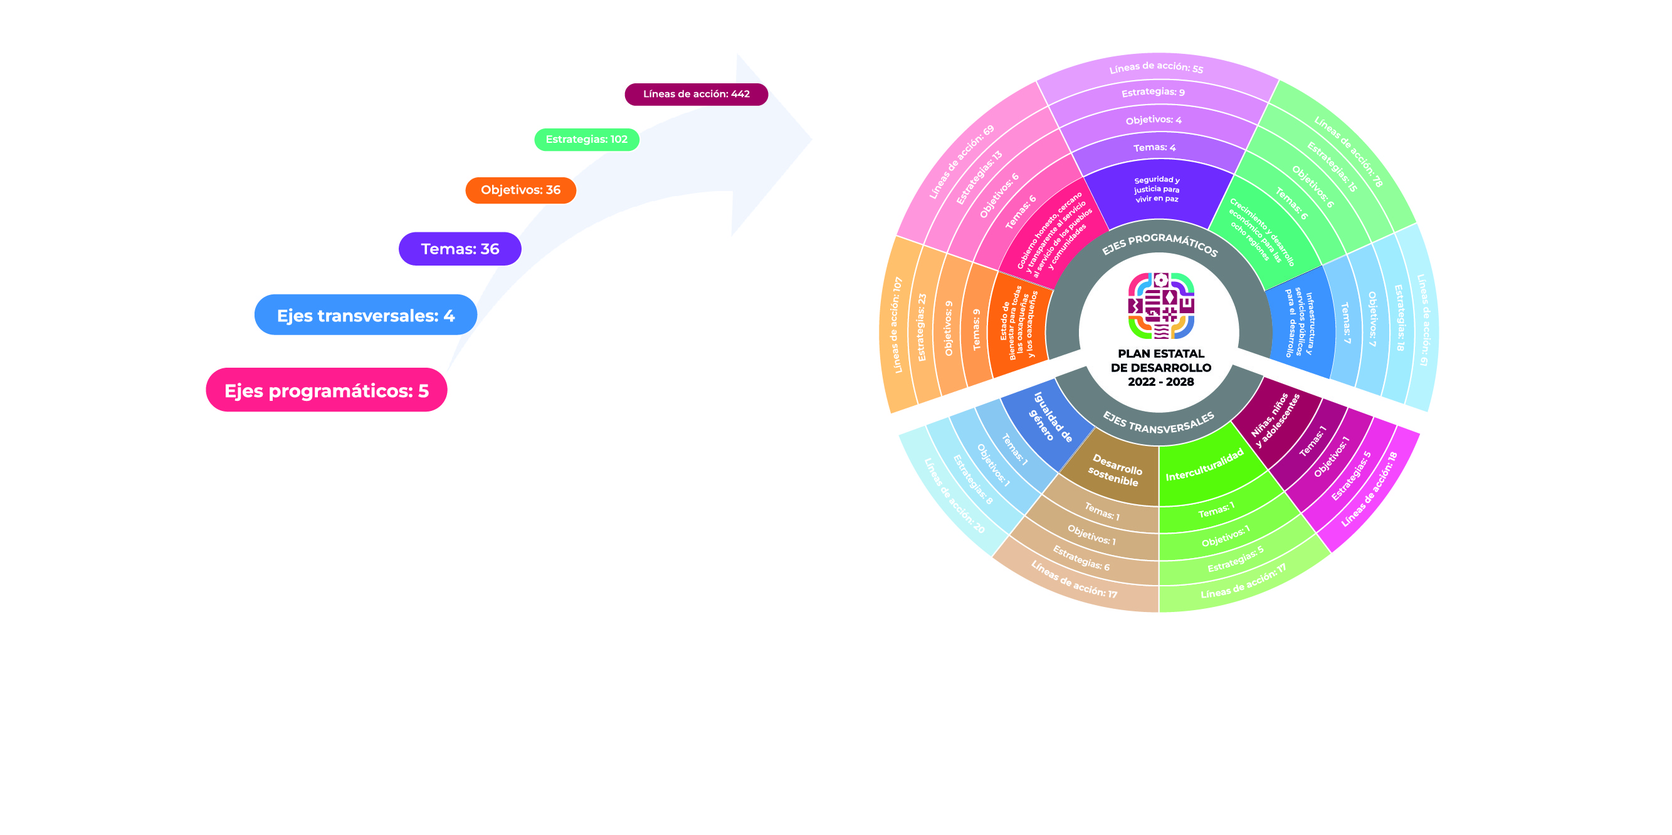
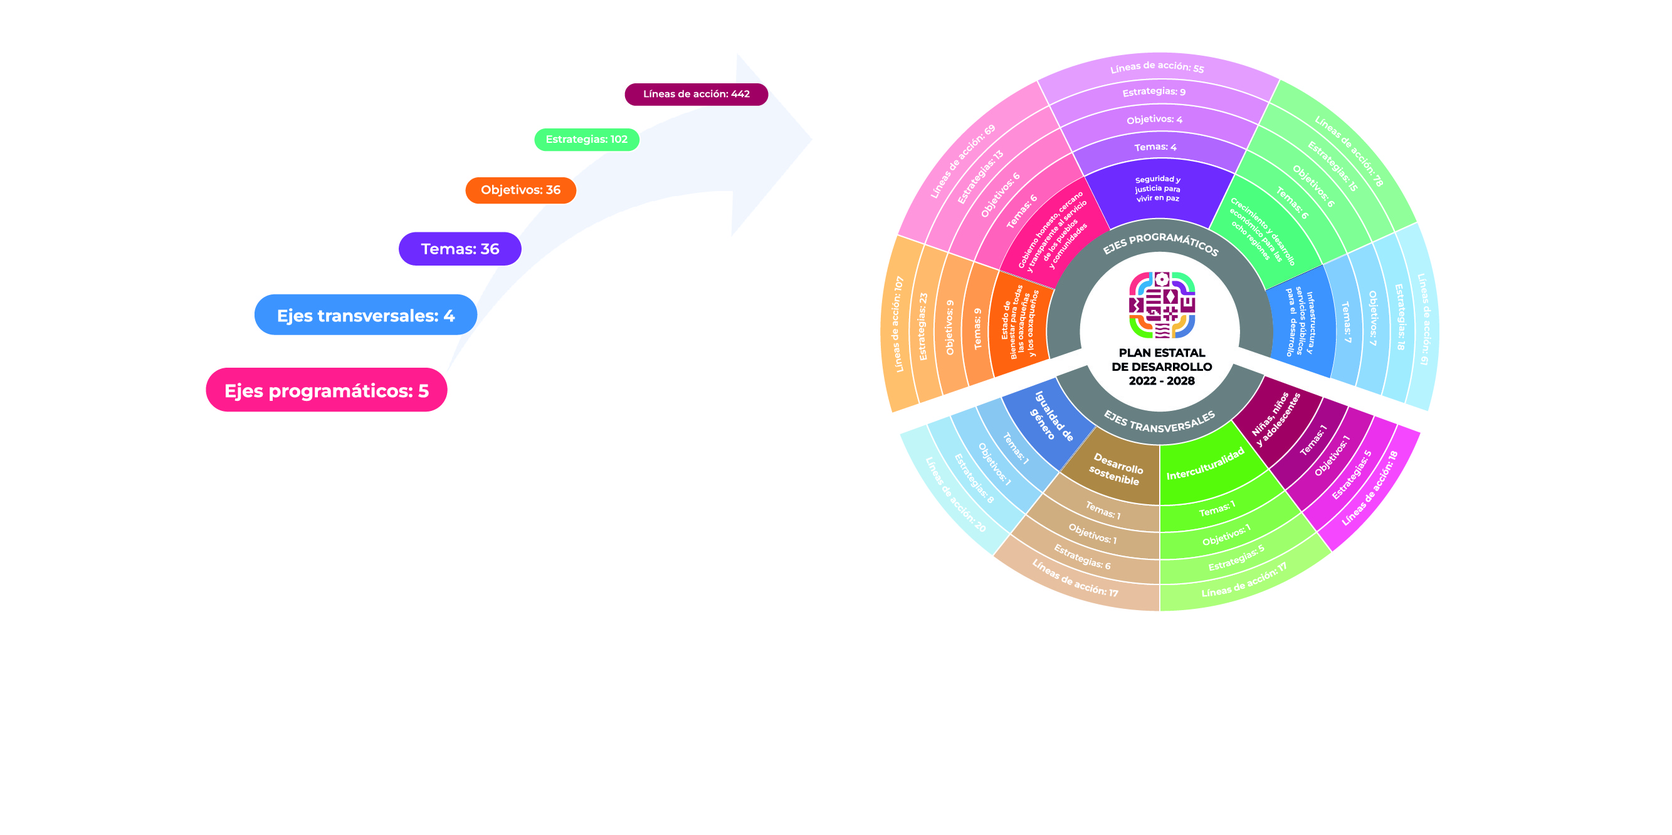
Mostrar ejes transversales en la pagina principal del SIIBIEN

Changed region(s): [[0.5291, 0.0615, 0.8403, 0.4921], [0.5602, 0.4614, 0.8403, 0.7382], [0.7469, 0.123, 0.778, 0.1538]]

diff --git a/resources/views/welcome.blade.php b/resources/views/welcome.blade.php
@@ -1,10 +1,10 @@
 @extends('layouts.general')
 @section('content')
     <!--  <div style=" color:#919090">
-                                                                                <h3 class="text-center">Seguimiento Integral de Indicadores del Bienestar</h3>
-                                                                                <h4 class="text-center">(SIIBIEN)</h4>
-                                                                            </div>
-                                                                            <hr>-->
+                                                                                    <h3 class="text-center">Seguimiento Integral de Indicadores del Bienestar</h3>
+                                                                                    <h4 class="text-center">(SIIBIEN)</h4>
+                                                                                </div>
+                                                                                <hr>-->
     <center style="background-image:url(resources/images/logo_bg.png);background-size:150px;">
         <div id="carouselExampleIndicators" class="carousel slide" data-ride="carousel"
             style="width:70%;background-image:url('resources/images/logo_bg.png')">
@@ -12,99 +12,98 @@
                 <div class="carousel-item active">
                     <img class="d-block w-100" src="resources/images/sliders/sliderA1.jpg" alt="primero">
                     <div class="carousel-caption d-none d-md-block text-left" style="position: absolute;bottom:20px;">
-                        <div class="titleslider" style="display: none"
-                            >
+                        <div class="titleslider" style="display: none">
                             <h2 style="color:black;">Plan Estatal de Desarrollo 2022 - 2028</h2>
                             <!--<p style="color:black;">Instancia Técnica de Evaluación</p>-->
                         </div>
                     </div>
                 </div>
-             <!--   <div class="carousel-item" style="display: none">
-                    <img class="d-block w-100" src="resources/images/sliders/slider1.jpg" alt="primero">
-                    <div class="carousel-caption d-none d-md-block text-left" style="position: absolute;top:20px;">
-                        <div class="titleslider"
-                            >
-                            <h2 style="color:black;">Gobierno del Cambio</h2>
-                            <h4 style="color:black;">La primavera Oaxaqueña ha llegado para quedarse, en Oaxaca comienza el cambio hacia la 4T, dónde nadie se queda fuera y nadie se queda atrás.</h4>
+                <!--   <div class="carousel-item" style="display: none">
+                        <img class="d-block w-100" src="resources/images/sliders/slider1.jpg" alt="primero">
+                        <div class="carousel-caption d-none d-md-block text-left" style="position: absolute;top:20px;">
+                            <div class="titleslider"
+                                >
+                                <h2 style="color:black;">Gobierno del Cambio</h2>
+                                <h4 style="color:black;">La primavera Oaxaqueña ha llegado para quedarse, en Oaxaca comienza el cambio hacia la 4T, dónde nadie se queda fuera y nadie se queda atrás.</h4>
+                            </div>
                         </div>
                     </div>
-                </div>
-                <div class="carousel-item" style="display: none">
-                    <img class="d-block w-100" src="resources/images/sliders/slider2.jpg" alt="segundo">
-                    <div class="carousel-caption d-none d-md-block text-left" style="position: absolute;top:20px;">
-                        <div class="titleslider"
-                            >
-                            <h2 style="color:black;">Sistema para el Seguimiento Integral de los Indicadores de Bienestar (SIIBien)</h2>
-                            <h4 style="color:black;">El SIIBien es un sistema Informático que concentra la información del Desempeño del Plan
-                                Estatal
-                                de Desarrollo 2022-2028 (PED 2022-2028) a través del Seguimiento de los Indicadores
-                                Estratégicos
-                                y de Gestión
-                                derivados de los Objetivos, Estrategias y Líneas de Acción contenidos en el PED.</h4>
+                    <div class="carousel-item" style="display: none">
+                        <img class="d-block w-100" src="resources/images/sliders/slider2.jpg" alt="segundo">
+                        <div class="carousel-caption d-none d-md-block text-left" style="position: absolute;top:20px;">
+                            <div class="titleslider"
+                                >
+                                <h2 style="color:black;">Sistema para el Seguimiento Integral de los Indicadores de Bienestar (SIIBien)</h2>
+                                <h4 style="color:black;">El SIIBien es un sistema Informático que concentra la información del Desempeño del Plan
+                                    Estatal
+                                    de Desarrollo 2022-2028 (PED 2022-2028) a través del Seguimiento de los Indicadores
+                                    Estratégicos
+                                    y de Gestión
+                                    derivados de los Objetivos, Estrategias y Líneas de Acción contenidos en el PED.</h4>
+                            </div>
                         </div>
                     </div>
-                </div>
-                <div class="carousel-item" style="display: none">
-                    <img class="d-block w-100" src="resources/images/sliders/slider3.jpg" alt="tercero">
-                    <div class="carousel-caption d-none d-md-block text-left" style="position: absolute;top:20px;">
-                        <div class="titleslider" 
-                            >
-                        <h2 style="color:black">Gobierno cercano a la gente</h2>
-                        <h4 style="color:black">Las estrategias concebidas en la política pública de este Gobierno estan orientadas hacia el logro del bienestar para todas y todos.</h4>
+                    <div class="carousel-item" style="display: none">
+                        <img class="d-block w-100" src="resources/images/sliders/slider3.jpg" alt="tercero">
+                        <div class="carousel-caption d-none d-md-block text-left" style="position: absolute;top:20px;">
+                            <div class="titleslider"
+                                >
+                            <h2 style="color:black">Gobierno cercano a la gente</h2>
+                            <h4 style="color:black">Las estrategias concebidas en la política pública de este Gobierno estan orientadas hacia el logro del bienestar para todas y todos.</h4>
+                            </div>
                         </div>
                     </div>
-                </div>
-                <div class="carousel-item" style="display: none">
-                    <img class="d-block w-100" src="resources/images/sliders/slider4.jpg" alt="cuarto">
-                    <div class="carousel-caption d-none d-md-block text-left" style="position: absolute;top:20px;">
-                        <div class="titleslider"
-                            >
-                        <h2 style="color:black">Interculturalidad</h2>
-                        <h4 style="color:black">Consciente de la riqueza étnica del Estado, este Gobierno busca fortalecer la identidad de los pueblos originarios y enaltecer sus costumbres y tradiciones.</h4>
+                    <div class="carousel-item" style="display: none">
+                        <img class="d-block w-100" src="resources/images/sliders/slider4.jpg" alt="cuarto">
+                        <div class="carousel-caption d-none d-md-block text-left" style="position: absolute;top:20px;">
+                            <div class="titleslider"
+                                >
+                            <h2 style="color:black">Interculturalidad</h2>
+                            <h4 style="color:black">Consciente de la riqueza étnica del Estado, este Gobierno busca fortalecer la identidad de los pueblos originarios y enaltecer sus costumbres y tradiciones.</h4>
+                            </div>
                         </div>
                     </div>
-                </div>
-                <div class="carousel-item" style="display: none">
-                    <img class="d-block w-100" src="resources/images/sliders/slider5.jpg" alt="quinto">
-                    <div class="carousel-caption d-none d-md-block text-left" style="position: absolute;top:20px;">
-                        <div class="titleslider"
-                            >
-                        <h2 style="color:black">Primavera Oaxaqueña</h2>
-                        <h4 style="color:black">El progreso es para todas y todos, en Oaxaca el tiempo de la transformación ya está sucediendo.</h4>
+                    <div class="carousel-item" style="display: none">
+                        <img class="d-block w-100" src="resources/images/sliders/slider5.jpg" alt="quinto">
+                        <div class="carousel-caption d-none d-md-block text-left" style="position: absolute;top:20px;">
+                            <div class="titleslider"
+                                >
+                            <h2 style="color:black">Primavera Oaxaqueña</h2>
+                            <h4 style="color:black">El progreso es para todas y todos, en Oaxaca el tiempo de la transformación ya está sucediendo.</h4>
+                            </div>
                         </div>
                     </div>
-                </div>
-                <div class="carousel-item" style="display: none">
-                    <img class="d-block w-100" src="resources/images/sliders/slider6.jpg" alt="First slide">
-                    <div class="carousel-caption d-none d-md-block text-left" style="position: absolute;top:20px;">
-                        <div class="titleslider"
-                            >
-                        <h2 style="color:black">Sostenibilidad</h2>
-                        <h4 style="color:black">Un Gobierno comprometido con el desarrollo preponderando el cuidado y conservación ambiental de las ocho regiones del Estado.</h4>
-                    </div>
-                    </div>
-                </div>
-                <div class="carousel-item" style="display: none">
-                    <img class="d-block w-100" src="resources/images/sliders/slider7.jpg" alt="First slide">
-                    <div class="carousel-caption d-none d-md-block text-left" style="position: absolute;top:20px;">
-                        <div class="titleslider"
-                            >
-                        <h2 style="color:black">Conservación del Patrimonio</h2>
-                        <h4 style="color:black">La riqueza patrimonial debe conservarse y protegerse, es compromiso de este Gobierno impulsar acciones para la conservación de nuestro patrimonio.</h4>
+                    <div class="carousel-item" style="display: none">
+                        <img class="d-block w-100" src="resources/images/sliders/slider6.jpg" alt="First slide">
+                        <div class="carousel-caption d-none d-md-block text-left" style="position: absolute;top:20px;">
+                            <div class="titleslider"
+                                >
+                            <h2 style="color:black">Sostenibilidad</h2>
+                            <h4 style="color:black">Un Gobierno comprometido con el desarrollo preponderando el cuidado y conservación ambiental de las ocho regiones del Estado.</h4>
+                        </div>
                         </div>
                     </div>
-                </div>
-                <div class="carousel-item" style="display: none">
-                    <img class="d-block w-100" src="resources/images/sliders/slider8.jpg" alt="First slide">
-                    <div class="carousel-caption d-none d-md-block text-left" style="position: absolute;top:20px;">
-                        <div class="titleslider"
-                            >
-                        <h2 style="color:black">Indicadores Estratégicos del Estado</h2>
-                        <h4 style="color:black">Herramientas de Medición del Desempeño de este Gobierno.</h4>
+                    <div class="carousel-item" style="display: none">
+                        <img class="d-block w-100" src="resources/images/sliders/slider7.jpg" alt="First slide">
+                        <div class="carousel-caption d-none d-md-block text-left" style="position: absolute;top:20px;">
+                            <div class="titleslider"
+                                >
+                            <h2 style="color:black">Conservación del Patrimonio</h2>
+                            <h4 style="color:black">La riqueza patrimonial debe conservarse y protegerse, es compromiso de este Gobierno impulsar acciones para la conservación de nuestro patrimonio.</h4>
+                            </div>
                         </div>
                     </div>
-                </div>
-            -->
+                    <div class="carousel-item" style="display: none">
+                        <img class="d-block w-100" src="resources/images/sliders/slider8.jpg" alt="First slide">
+                        <div class="carousel-caption d-none d-md-block text-left" style="position: absolute;top:20px;">
+                            <div class="titleslider"
+                                >
+                            <h2 style="color:black">Indicadores Estratégicos del Estado</h2>
+                            <h4 style="color:black">Herramientas de Medición del Desempeño de este Gobierno.</h4>
+                            </div>
+                        </div>
+                    </div>
+                -->
             </div>
             <a class="carousel-control-prev" href="#carouselExampleIndicators" role="button" data-slide="prev">
                 <span class="carousel-control-prev-icon" aria-hidden="true"></span>
@@ -122,62 +121,115 @@
                         style="background-image: url(images/main/PEJES.svg);background-repeat:no-repeat;width:15%;height:250px;background-position:center;width: 16.6%">
                     </td>
                     <td style="background-image: url(images/main/EJE1.svg);background-repeat:no-repeat;background-size:70%;background-position:center;text-align:center;padding-left:20px; padding-right:20px;cursor:pointer;width: 16.6%"
-                        onmouseover="$('#eje1text').css('display','block'); setTimeout(function(){$('#eje1text').css('display','none');},2000);">
-                        <center>
-                            <div style="display:none;color:black;padding:15px;width:80%; background-color:white; opacity:.7;"
-                                id="eje1text">
-                                <span class="eje1">Eje 1</span>
-                                <br />
-                                <span class="eje1"> Estado de Bienestar para todas las oaxaqueñas y oaxaqueños</span>
-                            </div>
-                        </center>
+                        onmouseover="$('#eje1text').css('display','block'); //setTimeout(function(){$('#eje1text').css('display','none');},2000);"
+                        onmouseout="$('#eje1text').css('display','none');">
+
+                        <div style="display:none;color:white;padding:15px;width:30%; background-color:rgb(131,71,136); opacity:.7; position:absolute; float:right; font-size:1.5em;text-align:left;z-index:50"
+                            id="eje1text">
+                            <span class="eje1" style="font-size:2em;">Eje 1</span>
+                            <br />
+                            <span class="eje1"> Estado de Bienestar para todas las oaxaqueñas y oaxaqueños</span>
+                        </div>
                     </td>
                     <td style="background-image: url(images/main/EJE2.svg);background-repeat:no-repeat;background-size:70%;;background-position:center;text-align:center;padding-left:20px; padding-right:20px;cursor:pointer;width: 16.6%"
-                        onmouseover="$('#eje2text').css('display','block'); setTimeout(function(){$('#eje2text').css('display','none');},2000);">
-                        <center>
-                            <div style="display:none;color:black;padding:15px;width:80%; background-color:white; opacity:.7;"
-                                id="eje2text">
-                                <span>Eje 2</span>
-                                <br />
-                                <span>Gobierno honesto, cercano y transparente</span>
-                            </div>
-                        </center>
+                        onmouseover="$('#eje2text').css('display','block'); //setTimeout(function(){$('#eje2text').css('display','none');},2000);"
+                        onmouseout="$('#eje2text').css('display','none');">
+
+                        <div style="display:none;color:white;padding:15px;width:30%; background-color:rgb(215,88,103); opacity:.7; position:absolute; float:right; font-size:1.5em;text-align:left;z-index:50"
+                            id="eje2text" class="ejetext">
+                            <span style="font-size:2em;">Eje 2</span>
+                            <br />
+                            <span>Gobierno honesto, cercano y transparente al servicio de los pueblos y comunidades</span>
+                        </div>
+
                     </td>
                     <td style="background-image: url(images/main/EJE3.svg);background-repeat:no-repeat;background-size:70%;background-position:center;text-align:center;padding-left:20px; padding-right:20px;cursor:pointer;width: 16.6%"
-                        onmouseover="$('#eje3text').css('display','block'); setTimeout(function(){$('#eje3text').css('display','none');},2000);">
-                        <center>
-                            <div style="display:none;color:black;padding:15px;width:80%; background-color:white; opacity:.7;"
-                                id="eje3text">
-                                <span>Eje 3</span>
-                                <br />
-                                <span>Seguridad y Justicia para vivir en paz</span>
-                            </div>
-                        </center>
+                        onmouseover="$('#eje3text').css('display','block'); //setTimeout(function(){$('#eje3text').css('display','none');},2000);"
+                        onmouseout="$('#eje3text').css('display','none');">
+
+                        <div style="display:none;color:white;padding:15px;width:30%; background-color:rgb(77,171,162); opacity:.7; position:absolute; float:right; font-size:1.5em;text-align:left;z-index:50"
+                            id="eje3text" class="ejetext">
+                            <span style="font-size:2em;">Eje 3</span>
+                            <br />
+                            <span>Seguridad y Justicia para vivir en paz</span>
+                        </div>
+
                     </td>
                     <td style="background-image: url(images/main/EJE4.svg);background-repeat:no-repeat;background-size:70%;background-position:center;text-align:center;padding-left:20px; padding-right:20px;cursor:pointer;width: 16.6%"
-                        onmouseover="$('#eje4text').css('display','block'); setTimeout(function(){$('#eje4text').css('display','none');},2000);">
-                        <center>
-                            <div style="display:none;color:black;padding:15px;width:80%; background-color:white; opacity:.7;"
-                                id="eje4text">
-                                <span>Eje 4</span>
-                                <br />
-                                <span>Crecimiento y Desarrollo Económico</span>
-                            </div>
-                        </center>
+                        onmouseover="$('#eje4text').css('display','block'); //setTimeout(function(){$('#eje4text').css('display','none');},2000);"
+                        onmouseout="$('#eje4text').css('display','none');">
+
+                        <div style="display:none;color:white;padding:15px;width:30%; background-color:rgb(96,120,171); opacity:.7;position:absolute; float:right; font-size:1.5em;text-align:left;z-index:50"
+                            id="eje4text" class="ejetext">
+                            <span style="font-size:2em;">Eje 4</span>
+                            <br />
+                            <span>Crecimiento y Desarrollo Económico para las ocho regiones</span>
+                        </div>
+
                     </td>
                     <td style="background-image: url(images/main/EJE5.svg);background-repeat:no-repeat;background-size:70%;background-position:center;text-align:center;padding-left:20px; padding-right:20px;cursor:pointer;width: 16.6%"
-                        onmouseover="$('#eje5text').css('display','block'); setTimeout(function(){$('#eje5text').css('display','none');},2000);">
-                        <center>
-                            <div style="display:none;color:black;padding:15px;width:80%; background-color:white; opacity:.7;"
-                                id="eje5text">
-                                <span>Eje 5</span>
-                                <br />
-                                <span>Infraestructura y servicios públicos</span>
-                            </div>
-                        </center>
+                        onmouseover="$('#eje5text').css('display','block'); //setTimeout(function(){$('#eje5text').css('display','none');},2000);"
+                        onmouseout="$('#eje5text').css('display','none');">
+
+                        <div style="display:none;color:white;padding:15px;width:30%; background-color:rgb(113,171,74); opacity:.7;position:absolute; float:right; font-size:1.5em;text-align:left;z-index:50""
+                            id="eje5text" class="ejetext">
+                            <span style="font-size:2em;">Eje 5</span>
+                            <br />
+                            <span>Infraestructura y servicios públicos para el desarrollo</span>
+                        </div>
+
                     </td>
                 </tr>
             </table>
+        </div>
+        
+        <div style="position:relative; top:-140px;width:70%">
+            <center>
+                <table style="width: 100%;text-align:center;line-height:10px;z-index:0">
+                   
+                    <tr>
+                        <td colspan="4" style="background-color: rgb(163,65,110); color:white;border-radius:10px">
+                            <br />
+                            <h2>Ejes Transversales</h2>
+                        </td>
+                    </tr>
+                    <tr>
+                        <td style="height: 100px;vertical-align:middle;">
+                            <h3>Igualdad de género</h3>
+                        </td>
+                        <td>
+                            <h3>Desarrollo Sostenible</h3>
+                        </td>
+                        <td>
+                            <h3>Interculturalidad</h3>
+                        </td>
+                        <td>
+                            <h3>Niños, Niñas y Adolescentes</h3>
+                        </td>
+                    </tr>
+                    
+                    <tr style="display: none">
+                        <td>
+                            <img src="{{ asset('/images/main/tran.png') }}" alt="">
+                        </td>
+                        <td>
+                            <img src="{{ asset('/images/main/tran.png') }}" alt="">
+                        </td>
+                        <td>
+                            <img src="{{ asset('/images/main/tran.png') }}" alt="">
+                        </td>
+                        <td>
+                            <img src="{{ asset('/images/main/tran.png') }}" alt="">
+                        </td>
+                    </tr>
+                    <tr>
+                        <td>
+
+                        </td>
+                    </tr>
+
+                </table>
+            </center>
         </div>
         <div class="text-center" style="background-color:transparent; width:70%">
             <h1 style="color:black;font-size:3em">Indicadores por sector</h1>
@@ -289,11 +341,12 @@
             cursor: pointer;
             background-color: aliceblue;
         }
-        .titleslider{
-            background:rgba(255,255,255,1);
-            background:linear-gradient(90deg,rgba(255,255,255,1) 0%,rgb(104, 27, 46) 100%); 
-            opacity:.7; 
-            padding:15px
+
+        .titleslider {
+            background: rgba(255, 255, 255, 1);
+            background: linear-gradient(90deg, rgba(255, 255, 255, 1) 0%, rgb(104, 27, 46) 100%);
+            opacity: .7;
+            padding: 15px
         }
     </style>
 @endsection
